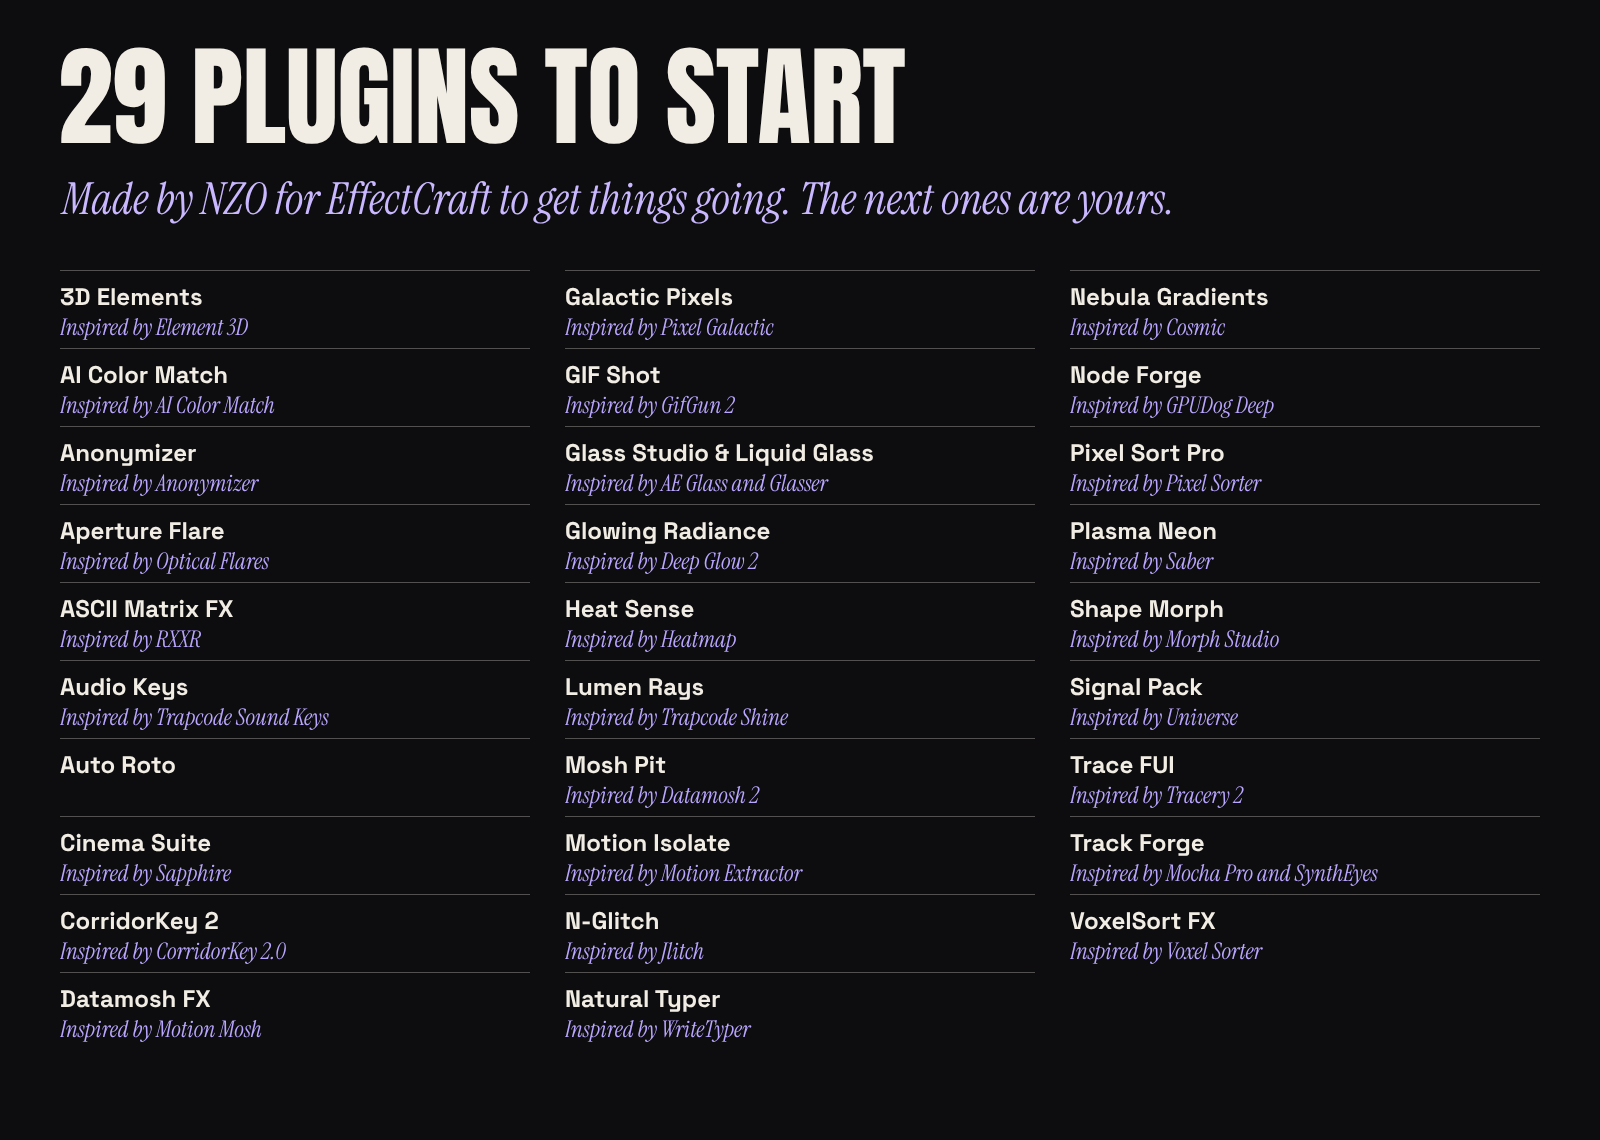
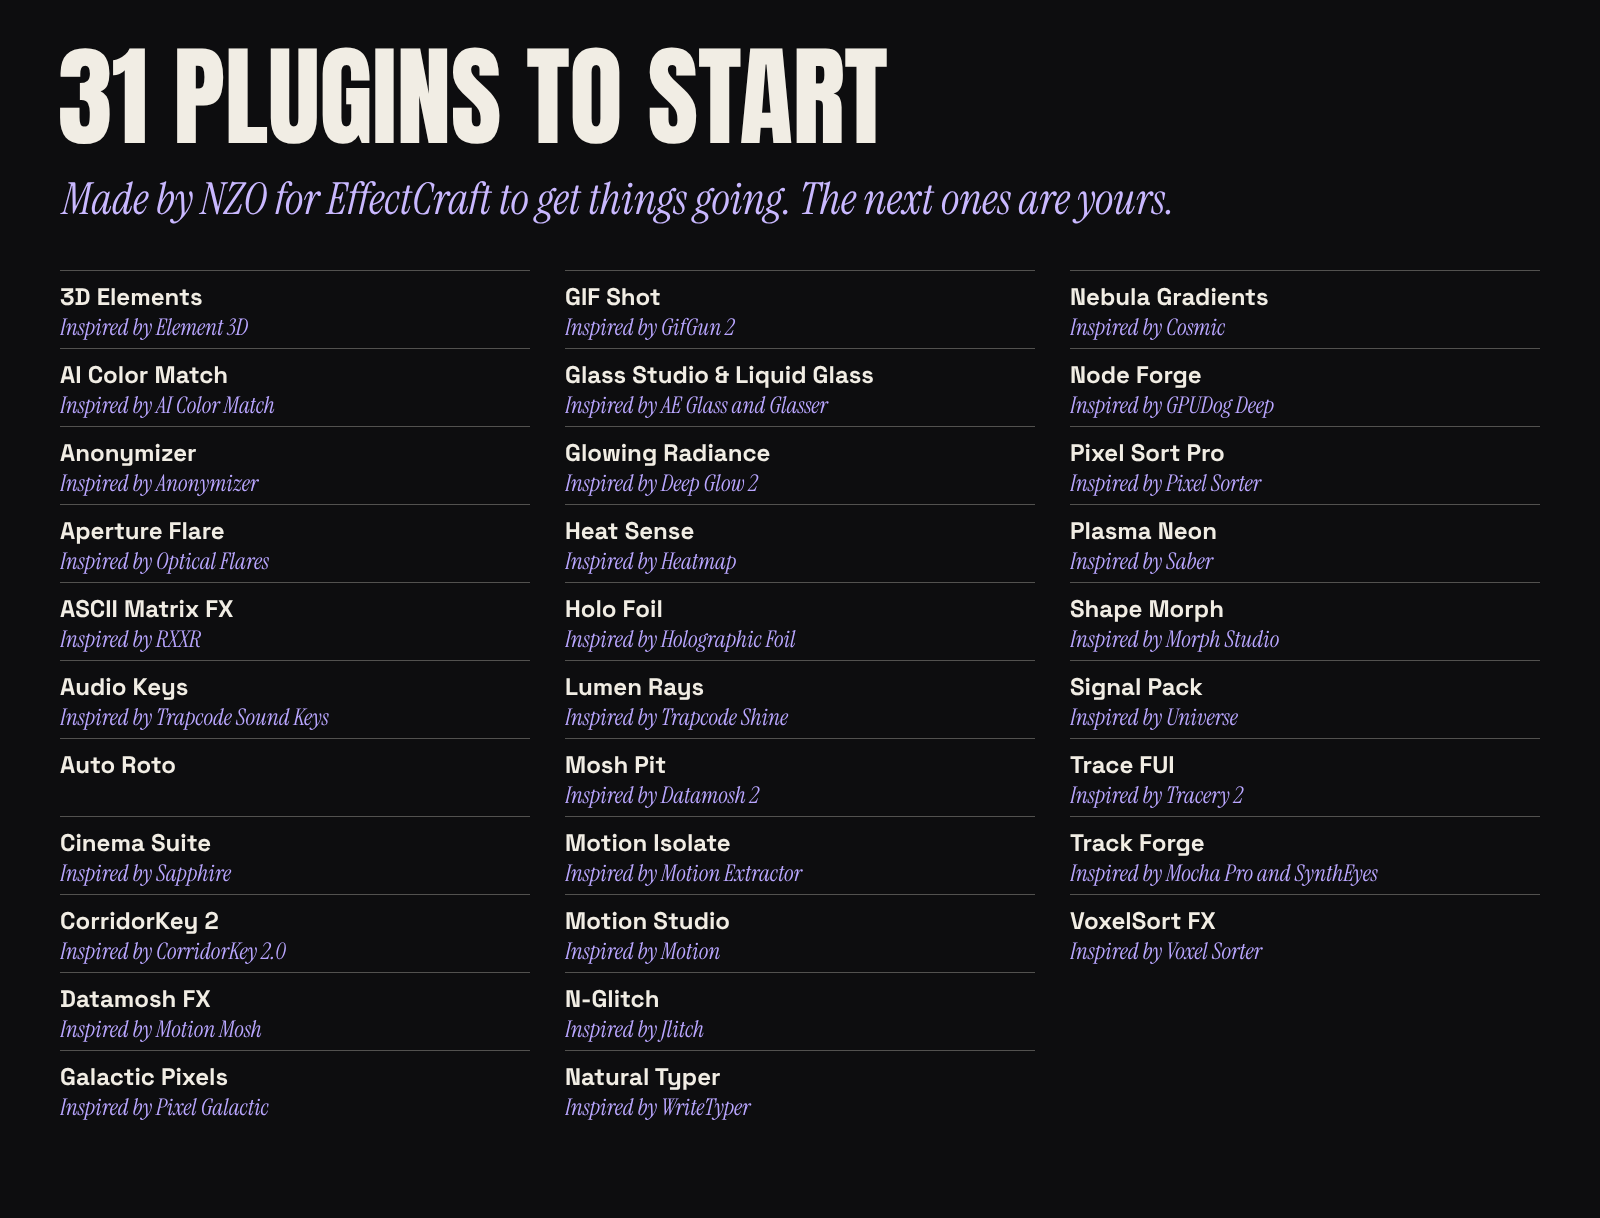
README: update to the current 31 plugins (Holo Foil, Motion Studio) (#4)
Claude-Session: https://claude.ai/code/session_01X5uisN8WwwqTW5EH6pmo5c

diff --git a/README.md b/README.md
@@ -42,7 +42,7 @@ Every submission goes through an automatic safety scan, and a person reads any s
 
 <p align="center"><img src="docs/images/c-inside.png" alt="A look inside the store" width="100%"></p>
 
-<p align="center"><img src="docs/images/c-index.png" alt="29 plugins to start" width="100%"></p>
+<p align="center"><img src="docs/images/c-index.png" alt="The first plugins" width="100%"></p>
 
 <details>
 <summary><b>📋 Every plugin, with what it does</b></summary>
@@ -64,9 +64,11 @@ Every submission goes through an automatic safety scan, and a person reads any s
 | **Glass Studio & Liquid Glass** | Effect + panel | Both glass panels with their shared rendering engine. | AE Glass and Glasser |
 | **Glowing Radiance** | Effect | Realistic HDR glow in linear light: hot core, long tail, dispersion, anamorphic stretch. | Deep Glow 2 |
 | **Heat Sense** | Effect | Thermal palettes, grain and thermometers. | Heatmap |
+| **Holo Foil** | Effect + panel | Iridescent holographic foil: colours that shift with relief and viewing angle, 10 looks, foil patterns, sheen and glitter. A panel links it to the layer's 3D rotation. | Holographic Foil |
 | **Lumen Rays** | Effect | Volumetric light rays from a point: sun through trees, beams bursting from a title or logo. 9 light sources, 12 gradients, looping shimmer, 18 blend modes. | Trapcode Shine |
 | **Mosh Pit** | Effect + panel | Datamosh algorithms and mosh markers. | Datamosh 2 |
 | **Motion Isolate** | Effect + panel | Isolates motion using a temporal rig. | Motion Extractor |
+| **Motion Studio** | Panel | The animation and layout toolbox in one-click buttons: anchors, align, easing, auto animations (overshoot, bounce, wiggle, orbit), text to letters, ready shapes, colours, comp formats. Inspired by Motion. Original NZO code, not affiliated. | Motion |
 | **N-Glitch** | Effect | Digital compression glitches and distortion. | Jlitch |
 | **Natural Typer** | Effect + panel | Natural text typing with adjustable timing. | WriteTyper |
 | **Nebula Gradients** | Effect | Animated nebula gradients and colour textures. | Cosmic |
@@ -104,7 +106,7 @@ Unzip **NZO-Store-Linux.zip** and run `./install.sh` to add it to your apps menu
 <details>
 <summary><b>🧩 Which Craft apps?</b></summary>
 
-The store has a shelf for each Craft app: **EffectCraft, FilmCraft, GridCraft, LightCraft, PdfCraft and PhotoCraft**. The first 29 plugins are for EffectCraft. As soon as someone publishes a plugin for another app, it shows up on that app's shelf for everyone, with nothing to reinstall.
+The store has a shelf for each Craft app: **EffectCraft, FilmCraft, GridCraft, LightCraft, PdfCraft and PhotoCraft**. The first plugins are all for EffectCraft. As soon as someone publishes a plugin for another app, it shows up on that app's shelf for everyone, with nothing to reinstall.
 
 The store never modifies the apps themselves. It only copies plugin files into each app's own plugin folders, and **Remove** deletes exactly what it installed.
 </details>
